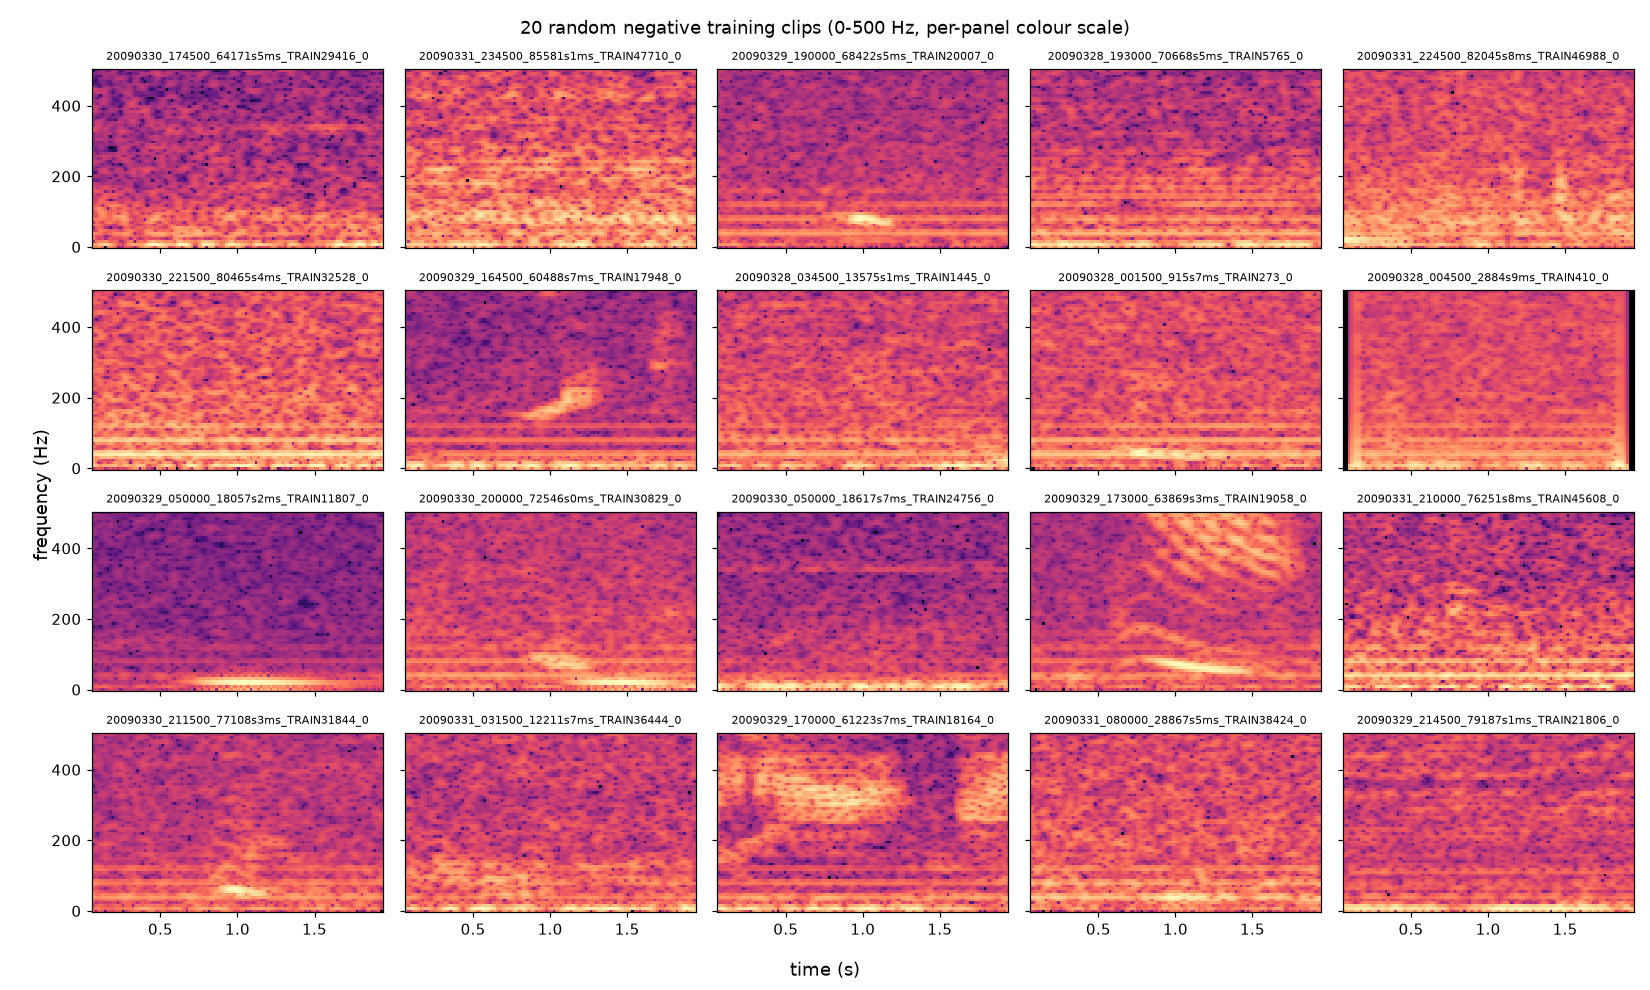
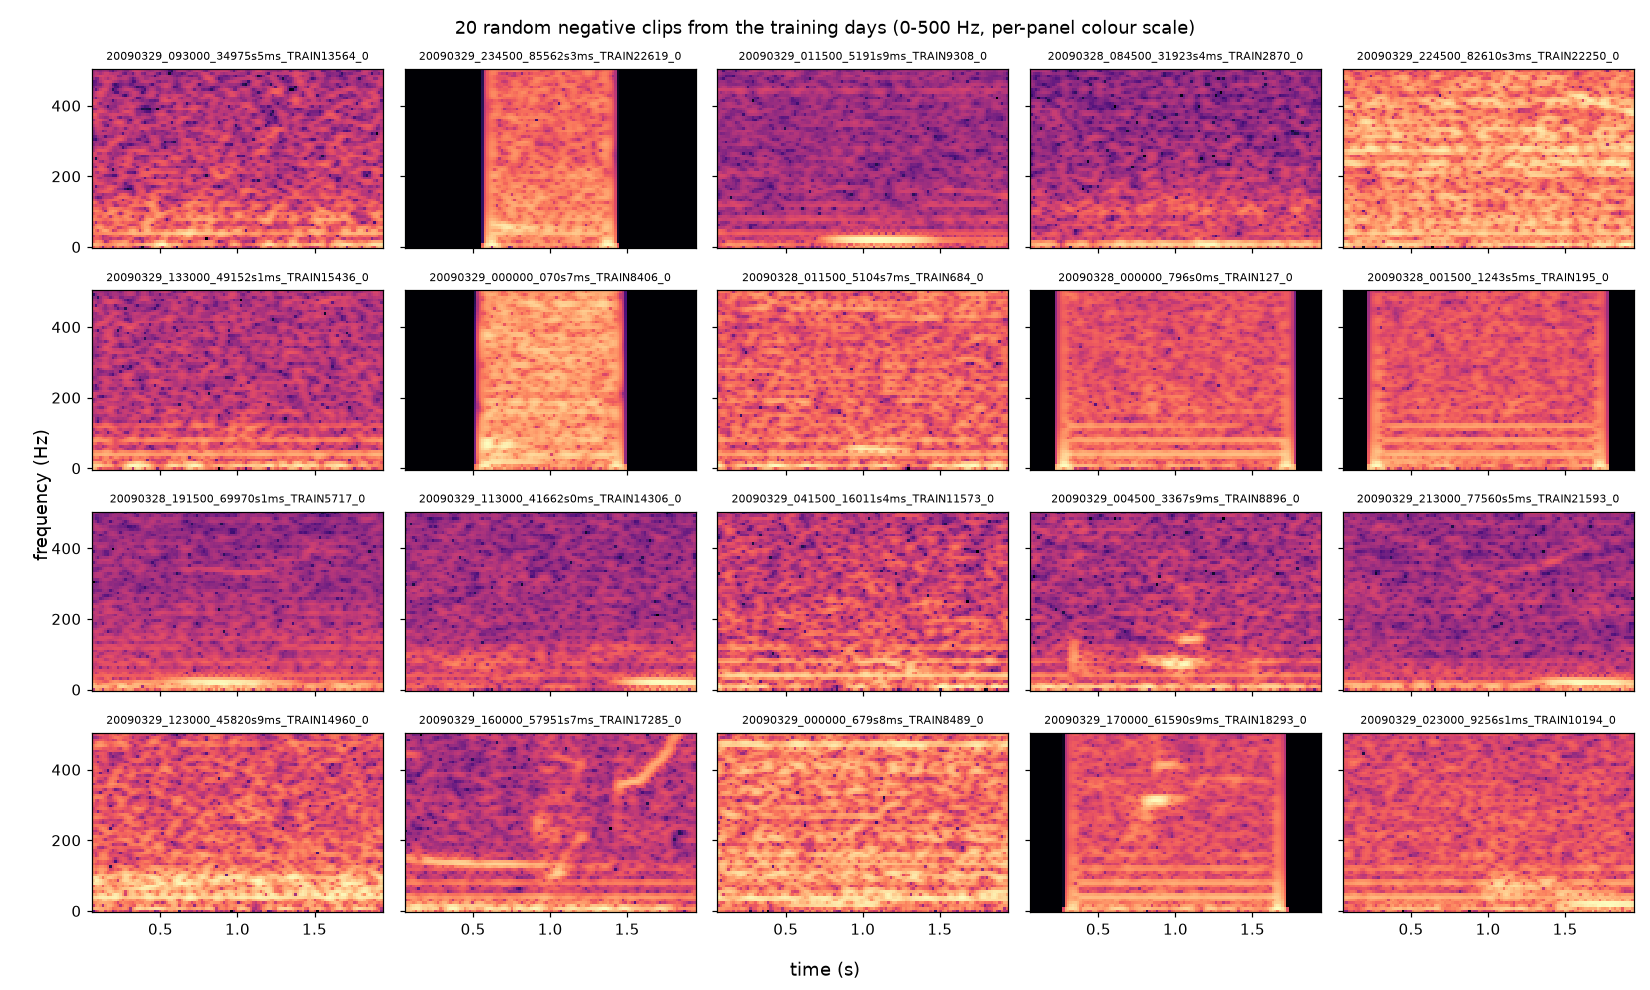
Restrict label-based exploration to the design fold's training days
The audit ran before the folds existed and read labels from all four days. It now has two parts: integrity checks on all clips with the label column dropped, and label-based exploration on 28-29 March only. Figures regenerated and quoted statistics updated; the spectrogram band choice is unchanged on the training-day figure.

diff --git a/src/whale/data/audit.py b/src/whale/data/audit.py
@@ -1,5 +1,15 @@
 """Data audit: print the facts later design choices rest on and save figures.
 
+Two parts, kept apart so that exploration cannot leak held-out data:
+
+1. **Integrity checks on every clip, without labels**: file format, clip
+   lengths, spacing in time, signal level, exact duplicates. These validate the
+   pipeline's input and never read a label.
+2. **Exploration with labels, on the design fold's training days only**
+   (28 and 29 March): class balance, positive rate by hour, example and mean
+   spectrograms per class, listening clips. Anything that looks at labels is
+   part of model development, so it must not see validation or test days.
+
 Reads the decoded cache (run ``python -m whale.data.decode`` first).
 
 Usage::
@@ -20,6 +30,7 @@ from scipy import signal
 
 from whale import paths
 from whale.data.preprocess import centre_pad
+from whale.data.splits import DESIGN_FOLD, FOLDS, assign_splits
 
 FIGURE_DIR = paths.REPO_ROOT / "reports" / "figures"
 LISTEN_DIR = paths.REPO_ROOT / "reports" / "listen"
@@ -50,14 +61,14 @@ def format_and_length(name: str, manifest: pd.DataFrame) -> None:
 
 
 def class_balance(manifest: pd.DataFrame) -> None:
-    section("train: class balance by day")
+    section("training days: class balance by day")
     table = manifest.groupby("date")["label"].agg(clips="size", positives="sum")
     table["pct_positive"] = (100 * table["positives"] / table["clips"]).round(1)
     table["chunks"] = manifest.groupby("date")["chunk_id"].nunique()
     print(table)
     print("overall pct positive:", round(100 * manifest["label"].mean(), 2))
 
-    section("train: short clips by label")
+    section("training days: short clips by label")
     short = manifest["n_samples"] < paths.CLIP_SAMPLES
     print(pd.crosstab(short.rename("short"), manifest["label"]))
     print("pct positive among short clips:", round(100 * manifest.loc[short, "label"].mean(), 1))
@@ -101,21 +112,15 @@ def amplitude(name: str, manifest: pd.DataFrame, waveforms: np.ndarray) -> None:
     head = data[:, :500]
     by_day = pd.DataFrame({"dc_offset": head.mean(axis=1), "std_after_dc_removal": head.std(axis=1)})
     print("median per day:\n", by_day.groupby(manifest["date"].values).median().round(0))
-    if (manifest["label"] >= 0).all():
-        for label in (0, 1):
-            print(f"  median RMS label {label}:", round(float(np.median(rms[manifest['label'] == label])), 0))
 
 
-def duplicates(train_wave: np.ndarray, test_wave: np.ndarray, train: pd.DataFrame) -> None:
+def duplicates(train_wave: np.ndarray, test_wave: np.ndarray) -> None:
     section("exact duplicate waveforms")
     digest = lambda row: hashlib.md5(np.ascontiguousarray(row).tobytes()).hexdigest()
     train_hash = pd.Series([digest(r) for r in train_wave])
     test_hash = pd.Series([digest(r) for r in test_wave])
     dup = train_hash.duplicated(keep=False)
     print("train clips sharing a waveform with another train clip:", int(dup.sum()))
-    if dup.any():
-        labels = train.loc[dup.values].assign(h=train_hash[dup].values).groupby("h")["label"].nunique()
-        print("  duplicate groups with conflicting labels:", int((labels > 1).sum()))
     print("test clips duplicated inside test:", int(test_hash.duplicated(keep=False).sum()))
     print("test clips identical to a train clip:", int(test_hash.isin(set(train_hash)).sum()))
 
@@ -141,7 +146,7 @@ def figure_examples(manifest: pd.DataFrame, waveforms: np.ndarray, seed: int = 0
             ax.set_title(manifest.at[row, "filename"].removesuffix(".aif"), fontsize=7)
         fig.supxlabel("time (s)")
         fig.supylabel("frequency (Hz)")
-        fig.suptitle(f"20 random {name} training clips (0-500 Hz, per-panel colour scale)")
+        fig.suptitle(f"20 random {name} clips from the training days (0-500 Hz, per-panel colour scale)")
         fig.tight_layout()
         fig.savefig(FIGURE_DIR / f"examples_{name}.png", dpi=110)
         plt.close(fig)
@@ -155,7 +160,8 @@ def figure_mean_spectrogram(manifest: pd.DataFrame, waveforms: np.ndarray) -> No
     fig, axes = plt.subplots(1, 3, figsize=(15, 4), sharey=True)
     means = {}
     for label in (0, 1):
-        rows = rng.choice(full[manifest.loc[full, "label"] == label], size=2000, replace=False)
+        candidates = full[manifest.loc[full, "label"] == label]
+        rows = rng.choice(candidates, size=min(2000, len(candidates)), replace=False)
         stack = [spectrogram(waveforms[r])[2] for r in rows]
         freqs, times, _ = spectrogram(waveforms[rows[0]])
         means[label] = np.mean(stack, axis=0)
@@ -229,20 +235,26 @@ def main() -> None:
     train, train_wave = load("train")
     test, test_wave = load("test")
 
-    format_and_length("train", train)
-    format_and_length("test", test)
-    class_balance(train)
-    temporal_structure("train", train)
-    temporal_structure("test", test)
-    amplitude("train", train, train_wave)
-    amplitude("test", test, test_wave)
-    duplicates(train_wave, test_wave, train)
+    print("##### Part 1: integrity checks on all clips, no labels read #####")
+    unlabelled = train.drop(columns="label")  # make it impossible to read a label here
+    format_and_length("labelled days", unlabelled)
+    format_and_length("Kaggle days", test)
+    temporal_structure("labelled days", unlabelled)
+    temporal_structure("Kaggle days", test)
+    amplitude("labelled days", unlabelled, train_wave)
+    amplitude("Kaggle days", test, test_wave)
+    duplicates(train_wave, test_wave)
+    figure_lengths(unlabelled)
 
-    figure_examples(train, train_wave)
-    figure_mean_spectrogram(train, train_wave)
-    figure_rate_by_hour(train)
-    figure_lengths(train)
-    export_listening_clips(train, train_wave)
+    days = FOLDS[DESIGN_FOLD]["train"]
+    print(f"\n##### Part 2: exploration with labels, training days only ({', '.join(days)}) #####")
+    explore = train[assign_splits(train, DESIGN_FOLD) == "train"]  # keeps the row index into the waveforms
+    assert set(explore["date"]) == set(days)
+    class_balance(explore)
+    figure_examples(explore, train_wave)
+    figure_mean_spectrogram(explore, train_wave)
+    figure_rate_by_hour(explore)
+    export_listening_clips(explore, train_wave)
     print(f"\nfigures -> {FIGURE_DIR}\nlistening clips -> {LISTEN_DIR}")
 
 

diff --git a/src/whale/data/splits.py b/src/whale/data/splits.py
@@ -1,9 +1,10 @@
 """Cross-validation folds over the four labelled recording days.
 
 Clips are detector output from continuous recordings: neighbours overlap in
-time, share background noise, and their labels are correlated (a clip that
-follows a positive is positive about 25-33% of the time against an 11% base
-rate). A random split would therefore leak, so whole days are held out. That
+time, share background noise, and their labels are correlated (on the design
+fold's training days, a clip that follows a positive is positive 23-26% of the
+time against an 8-11% base rate). A random split would therefore leak, so whole
+days are held out. That
 also mirrors the real task: Kaggle's unlabelled test set is from later days.
 
 Each fold tests on one day, validates (early stopping, threshold) on the day

diff --git a/README.md b/README.md
@@ -13,8 +13,9 @@ evaluation code and the report are not finished yet.
 
 ## Data
 
-47,841 labelled 2-second clips (11.0% contain an upcall) recorded on
-28–31 March 2009, mono 16-bit at 2 kHz. The data is not in this repository;
+47,841 labelled 2-second clips recorded on 28–31 March 2009, mono 16-bit at
+2 kHz. About 10% contain an upcall (measured on 28–29 March, the only days used
+for label-based exploration). The data is not in this repository;
 download it from Kaggle and point `WHALE_DATA_DIR` at the folder that holds
 `train2/` and `test2/`.
 
@@ -27,7 +28,8 @@ src/whale/
   data/decode.py           AIFF -> one int16 array + parquet manifest
   data/preprocess.py       offset and level removal, edge fade, padding
   data/splits.py           four folds rotating over recording days
-  data/audit.py            data checks and figures
+  data/audit.py            integrity checks (all clips, no labels) and
+                           label-based exploration (training days only)
   data/dataset.py          PyTorch dataset with time-shift augmentation
   features/spectrogram.py  log spectrogram, noise-floor removal, SpecAugment
   features/perch_input.py  2 kHz clip -> 5 s, 32 kHz Perch window
@@ -35,6 +37,9 @@ src/whale/
   models/perch_onnx.py     Perch v2 ONNX wrapper
   embed.py                 resumable embedding extraction
   select_perch_input.py    input-variant selection on the design fold
+  probe.py                 logistic-regression probe on Perch embeddings
+  explore_embeddings.py    PCA and UMAP of embeddings vs spectrograms
+  evaluate.py              held-out metrics, confidence intervals, error analysis
   train.py                 training loop with W&B logging
   metrics.py               ranking metrics and operating points
 configs/                   baseline training configs
@@ -47,7 +52,8 @@ tests/                     pytest suite
 - **Splits by recording day.** Neighbouring clips overlap in time and the
   positive rate swings from 0% to 37% by hour, so a random split leaks. Each of
   the four folds trains on two days, validates on one and tests on one. Fold 0
-  is the design fold; its test day (31 March) is untouched by design choices.
+  is the design fold: every design choice is made on its validation day, and
+  all exploration that reads labels uses only its training days (28–29 March).
 - **Per-clip offset and level removal.** The recordings carry a constant offset
   and a level that differ between the labelled days and the Kaggle test days.
 - **Perch input: 4× time compression.** Perch expects 5 s at 32 kHz and was
